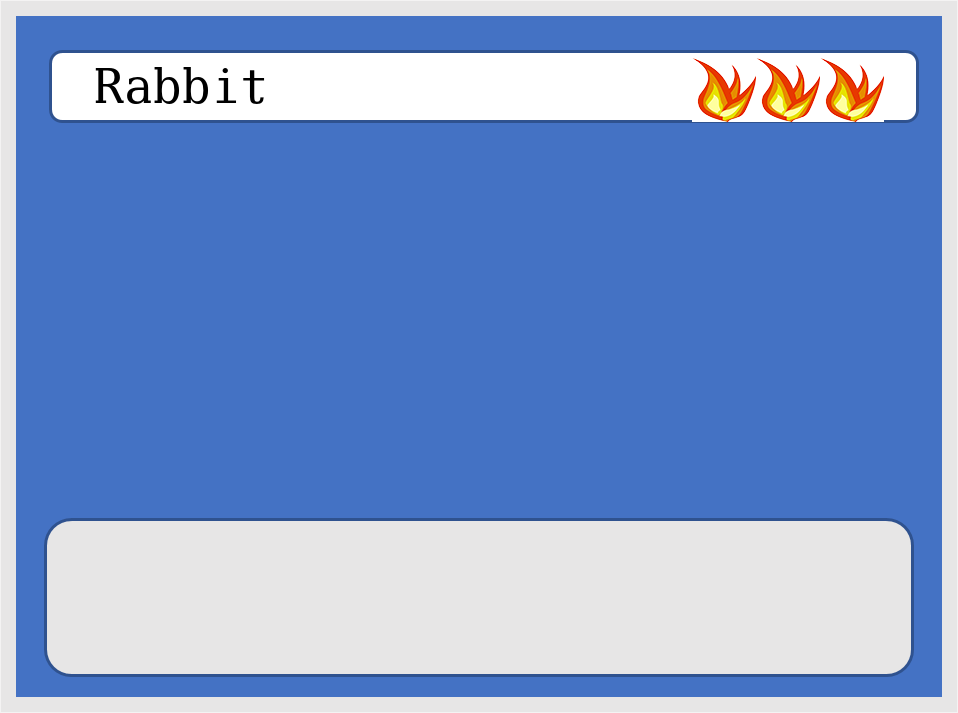
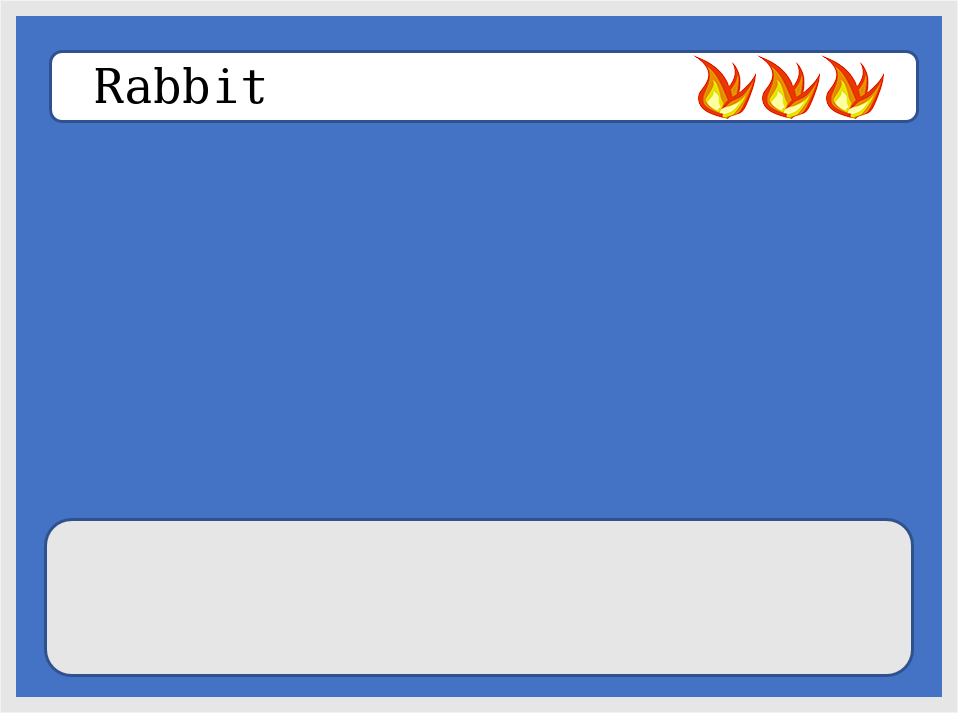
Fix transparency

Changed region(s): [[0.7265, 0.0617, 0.9384, 0.1851]]

diff --git a/update.py b/update.py
@@ -21,7 +21,7 @@ COLUMN_TEXT = 4
 CREATURE_NAME_LOCATION = (95, 58)
 CREATURE_HEALTH_LOCATION = (40, 280)
 CREATURE_TEXT_LOCATION = (70, 530)
-CREATURE_RIGHT_BAR_LOCATION = (820,58) #The far right side of the name bar
+CREATURE_RIGHT_BAR_LOCATION = (820,55) #The far right side of the name bar
 CREATURE_TOKEN_WIDTH = 64 #Size of a health token
 
 TEXT_RESOLUTION = 42 #Vertical distance between lines
@@ -77,7 +77,7 @@ for i in range(2,sheet.max_row + 1):
 			for y in range(0,3):
 				location = (CREATURE_RIGHT_BAR_LOCATION[0] - CREATURE_TOKEN_WIDTH * x - offset, CREATURE_RIGHT_BAR_LOCATION[1], CREATURE_RIGHT_BAR_LOCATION[0] - CREATURE_TOKEN_WIDTH * (x-1) - offset, CREATURE_RIGHT_BAR_LOCATION[1] + CREATURE_TOKEN_WIDTH)
 				offset = offset + CREATURE_TOKEN_WIDTH
-				background.paste(img, location)
+				background.paste(img, location, mask=img)
 
 		img.close()
 
